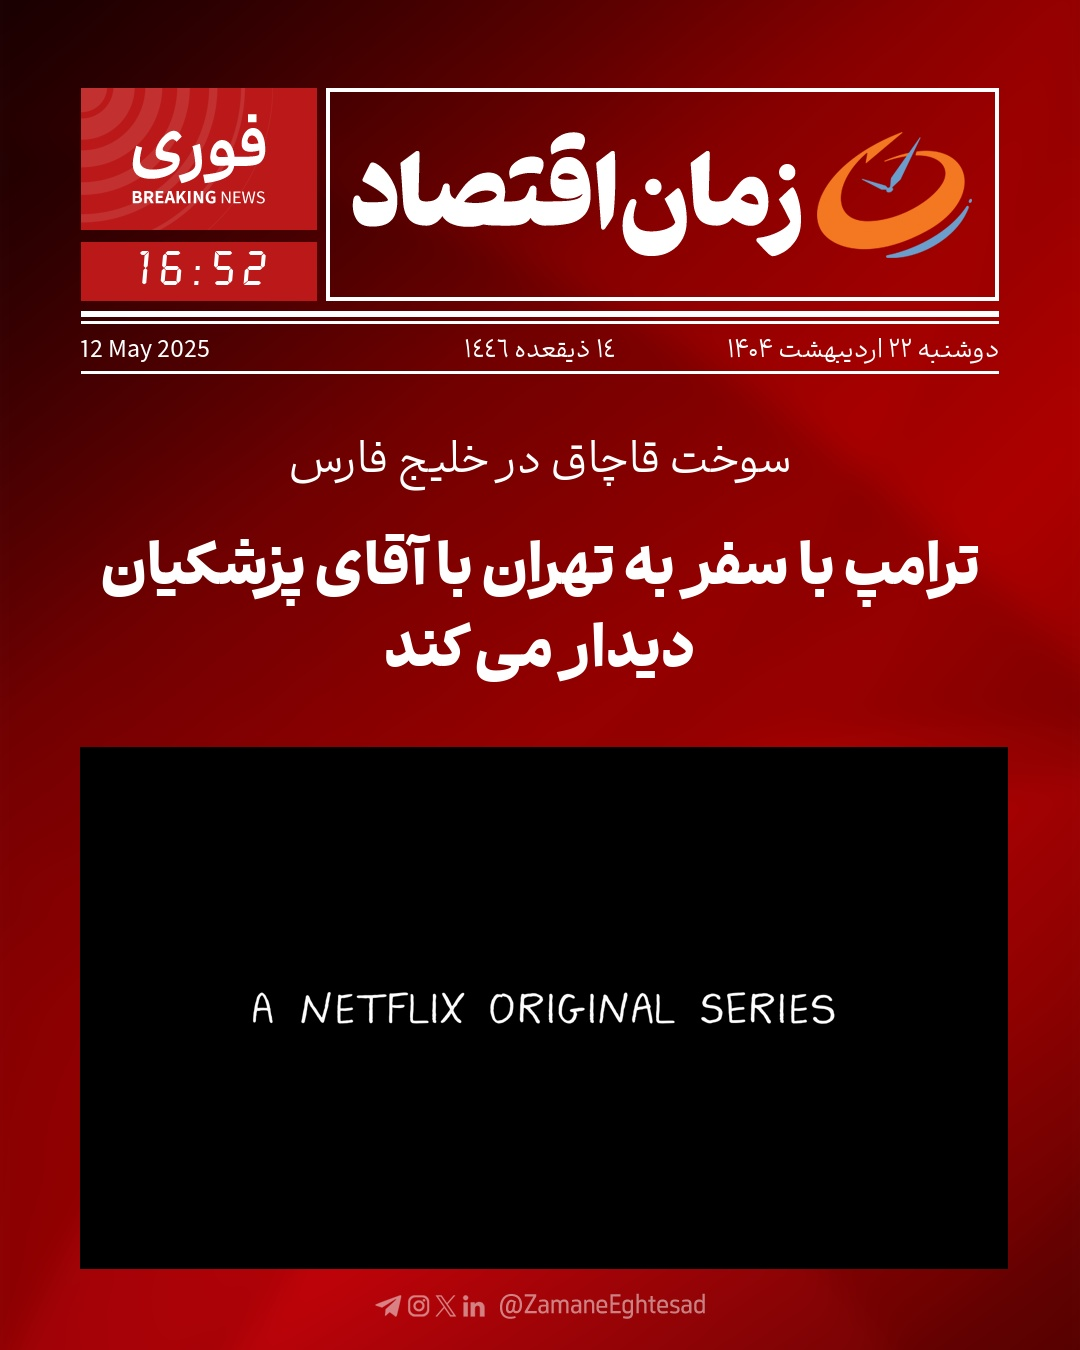
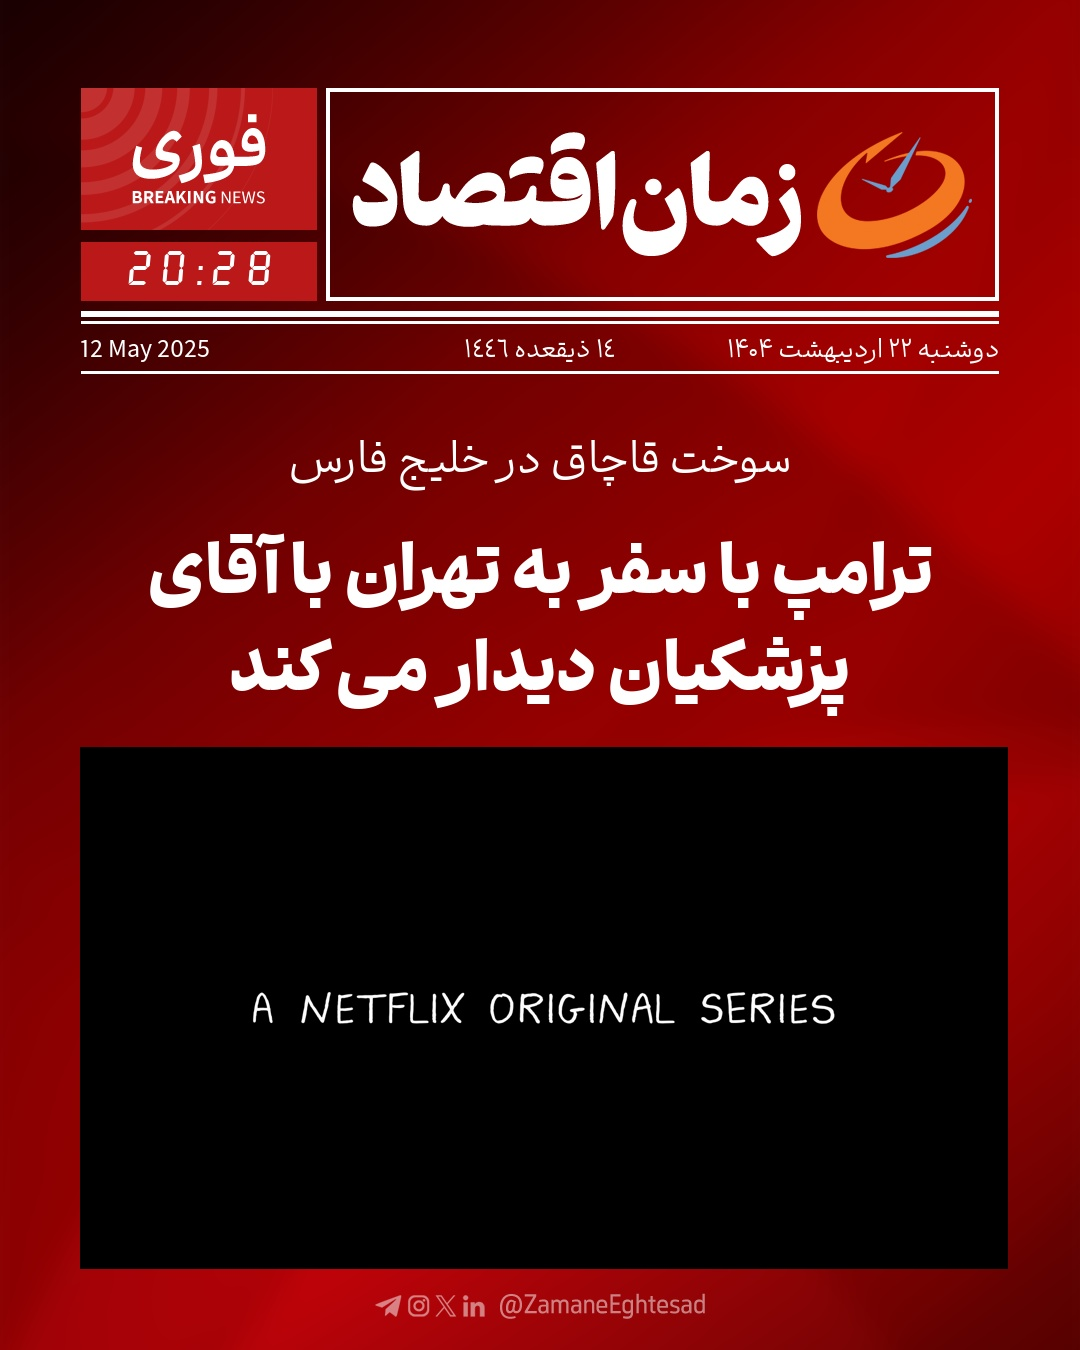
max font size updated in BreakingNews.py

Changed region(s): [[0.0917, 0.3733, 0.9167, 0.5289], [0.1222, 0.1867, 0.275, 0.2178]]

diff --git a/src/craft/BreakingNews.py b/src/craft/BreakingNews.py
@@ -15,7 +15,7 @@ def create_newspaper_image(
     overline_font_size_delta: int = 0,
     main_headline_font_size_delta: int = 0,
     days_into_future=0,
-    events_text = "",
+    events_text="",
 ) -> None:
 
     # Load the base template and compose it with the user image and event overlays.
@@ -62,7 +62,7 @@ def create_newspaper_image(
         headline_box = (margin, 390 + x_shift, base_img.width - 2 * margin, 373)
         verticalMode = "center_expanded"
 
-    headline_size = 60 + main_headline_font_size_delta
+    headline_size = 100 + main_headline_font_size_delta
     draw_text_in_box(
         draw,
         main_headline_text,
@@ -75,6 +75,7 @@ def create_newspaper_image(
         color="white",
         is_rtl=False,
         line_spacing=1.2,
+        max_font_size=65
     )
 
     # Add overline text.
@@ -159,41 +160,41 @@ if __name__ == "__main__":
     create_newspaper_image(
         user_image_path="UserImages/img.png",
         overline_text="سوخت قاچاق در خليج فارس",
-        main_headline_text= "ترامپ با سفر به تهران با آقاى پزشكيان ديدار مى كند",
+        main_headline_text="ترامپ با سفر به تهران با آقاى پزشكيان ديدار مى كند",
         output_path="./OutPut/BreakingNews_output.png",
-        dynamic_font_size=True
+        dynamic_font_size=True,
     )
 
-if __name__ == "__main__":
-    parser = argparse.ArgumentParser(
-        description="Generate a newspaper-style image with text overlays and optional watermark."
-    )
-    parser.add_argument(
-        "--user_image_path",
-        type=str,
-        required=True,
-        help="Path to the user image or pre-composed base image.",
-    )
-    parser.add_argument(
-        "--overline_text", type=str, required=True, help="The overline text."
-    )
-    parser.add_argument(
-        "--main_headline_text", type=str, required=True, help="The main headline text."
-    )
-    parser.add_argument(
-        "--output_path", type=str, required=True, help="Path to save the final image."
-    )
+# if __name__ == "__main__":
+#     parser = argparse.ArgumentParser(
+#         description="Generate a newspaper-style image with text overlays and optional watermark."
+#     )
+#     parser.add_argument(
+#         "--user_image_path",
+#         type=str,
+#         required=True,
+#         help="Path to the user image or pre-composed base image.",
+#     )
+#     parser.add_argument(
+#         "--overline_text", type=str, required=True, help="The overline text."
+#     )
+#     parser.add_argument(
+#         "--main_headline_text", type=str, required=True, help="The main headline text."
+#     )
+#     parser.add_argument(
+#         "--output_path", type=str, required=True, help="Path to save the final image."
+#     )
 
-    parser.add_argument(
-        "--events_text", type=str, default=None, help="Optional text for event 1."
-    )
+#     parser.add_argument(
+#         "--events_text", type=str, default=None, help="Optional text for event 1."
+#     )
 
-    args = parser.parse_args()
+#     args = parser.parse_args()
 
-    create_newspaper_image(
-        user_image_path=args.user_image_path,
-        overline_text=args.overline_text,
-        main_headline_text=args.main_headline_text,
-        output_path=args.output_path,
-        events_text=args.events_text,
-    )
+#     create_newspaper_image(
+#         user_image_path=args.user_image_path,
+#         overline_text=args.overline_text,
+#         main_headline_text=args.main_headline_text,
+#         output_path=args.output_path,
+#         events_text=args.events_text,
+#     )
